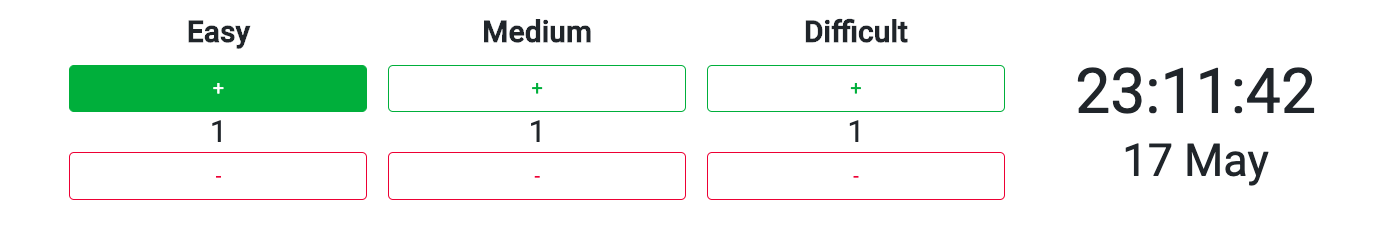
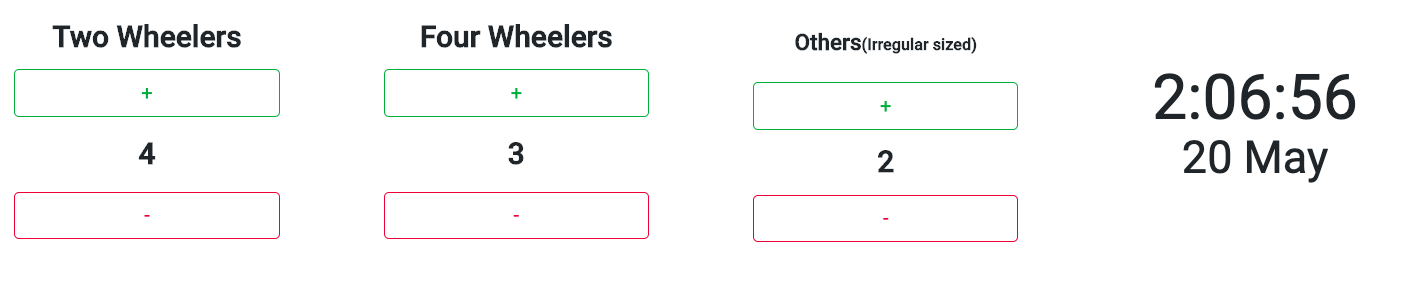
updated about pg

diff --git a/src/app/about/about.component.html b/src/app/about/about.component.html
@@ -1,52 +1,43 @@
 <div style="margin-top: 100px;margin-bottom: 10%;margin-left: 5%;width: 80%;" (window:resize)="onResize($event)">
-    <mat-grid-list style=""cols="1" [rowHeight]='breakpoint'>
-        <mat-grid-tile-header><h2 style="margin: 0%" class="mat-display-1">Manage your progress across platforms</h2></mat-grid-tile-header>
+    <mat-grid-list cols="1" [rowHeight]='breakpoint'>
+        <mat-grid-tile-header><h2 style="margin-bottom: 3%" class="mat-display-1">Manage the traffic into the parking system</h2></mat-grid-tile-header>
         <mat-grid-tile >
             <p class="mat-body mat-body-strong" style="word-spacing: 2px;font-size: medium;">
-                Are you feeling a lack of motivation to polish your coding skills, or finding 
-                going over the interview problems quite boring ? It might be the way you are
-                keeping a tab on your progress or the lack of interaction with the developer
-                community who are going through the same phase as you are in your prep.
-                Tabber provides an easy solution for you to manage your progress across 
-                various coding platforms, keep a tab on your friend's or the community's
-                advance each day,interact with others through a built in chatting arena while 
-                streaming music and much more on a common platform.
+                Tabber is a part of the suvidham ecosystem, to manage and collect data of the
+                various types of vehicles that enter into our parking system.The data is carefully
+                assessed to reallocate or disallocate parking space to a particular kind of vehicle
+                in order to function with the best usage of the space available.This also keeps a record
+                of the number of vehicles processed by each employee and the category of each.<br/>
+                There is a chat communication system for the employees to communicate any kind of issues
+                or tag a concerned employee.The employee identity is managed through google authentication
+                to prevent any untoward updates in the database.Only authenticated employees may communicate<br/>
+                Tabber strives to improve the user experience by improving the efficiency in space and
+                management of the parking system. 
             </p>
         </mat-grid-tile>
     </mat-grid-list>
+   
     <mat-divider style="margin-bottom: 5%"></mat-divider>
-    <mat-grid-list cols="1" [rowHeight]='breakpoint'>
-            <mat-grid-tile-header><h2 style="margin: 0%" class="mat-display-1">Tabber is free !</h2></mat-grid-tile-header>
-            <mat-grid-tile >
-                <p class="mat-body mat-body-strong" style="word-spacing: 2px;font-size: medium;">
-                    Tabber is absolutely free to use and with no ads for the best user experience.We strive
-                    to provide a solution to make learning fun by managing your progress,abling you to communicate
-                    with others who might be dealing with a similar situation. However we incur certain operational
-                    costs, so support us by buying a coffee if you find tabber useful.
-                </p>
-            </mat-grid-tile>
-        </mat-grid-list>
-        <mat-divider style="margin-bottom: 5%"></mat-divider>
     <h2 style="margin-bottom: 5%" class="mat-display-1">Features offered by Tabber</h2>
 
     <mat-card>
         <mat-card-header>
-            <mat-card-title>Check Other's Progress</mat-card-title>
-            <mat-card-subtitle>Search by name or email</mat-card-subtitle>
+            <mat-card-title>Check the stats for an employee</mat-card-title>
+            <mat-card-subtitle>Search by name or email,see stats for previous days</mat-card-subtitle>
         </mat-card-header>
             <img mat-card-image src="../../assets/img1.png">
     </mat-card>
     <mat-card>
         <mat-card-header>
-            <mat-card-title>Update your progress</mat-card-title>
-            <mat-card-subtitle>After updating the concerned level,table is updated</mat-card-subtitle>
+            <mat-card-title>Update the count</mat-card-title>
+            <mat-card-subtitle>Update whenever a new vehicle enters the system</mat-card-subtitle>
         </mat-card-header>
             <img mat-card-image src="../../assets/img2.png">
     </mat-card>
     <mat-card>
         <mat-card-header>
-            <mat-card-title>Stream music and chat with community</mat-card-title>
-            <mat-card-subtitle>Listen to the Tabber tunes at SoundCloud and chat</mat-card-subtitle>
+            <mat-card-title>Chat with other employees</mat-card-title>
+            <mat-card-subtitle>Report issues, or convey important messages</mat-card-subtitle>
         </mat-card-header>
             <img mat-card-image src="../../assets/img3.png">
     </mat-card>
